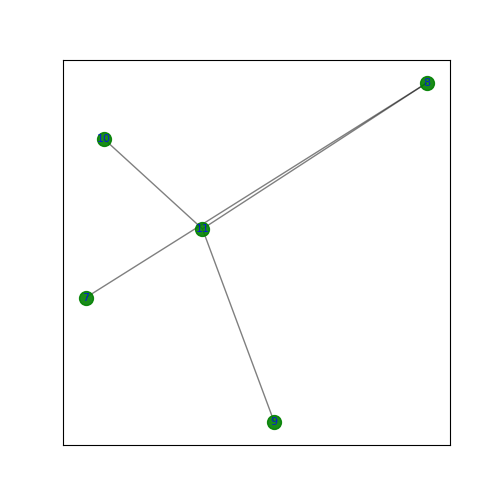
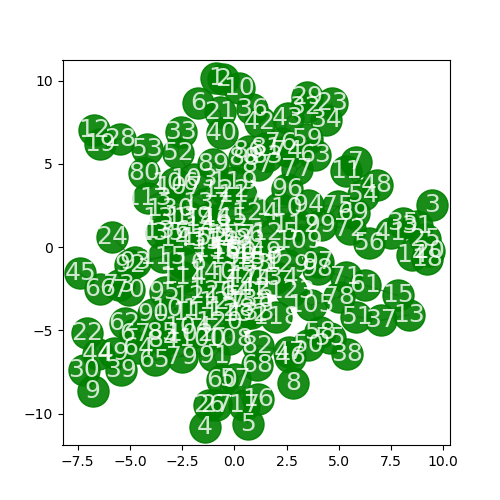
Worked with K on forest growth.

diff --git a/tree.py b/tree.py
@@ -25,9 +25,10 @@ class Tree:
     def _newlocation(self):
         num = randbelow(628) / 100
         r = math.log10(self.age)
-        loc = (round(math.cos(num) * r, 2), round(math.sin(num) * r, 2))
+        # r = 10
+        loc = (self.location[0] + round(math.cos(num) * r, 2), self.location[1] + round(math.sin(num) * r, 2))
         for tree in self.forest.trees:
-            if (loc[0]-tree.location[0]) ** 2 + (loc[1]-tree.location[1]) ** 2 <= r ** 2:
+            if (loc[0]-tree.location[0]) ** 2 + (loc[1]-tree.location[1]) ** 2 <= math.log10(tree.age) ** 2:
                 return None
         return loc
 
@@ -51,7 +52,8 @@ class Tree:
     def getnewneighbors(self):
         for t in self.forest.trees:
             if (t is not self.parent and t is not self and t not in self.neighbors and
-                ((t.location[0] - self.location[0]) ** 2 + (t.location[1] - self.location[1])) <= (2.5 * math.log10(self.age)) ** 2):
+                # ((t.location[0] - self.location[0]) ** 2 + (t.location[1] - self.location[1])) <= (2.5 * math.log10(self.age)) ** 2):
+                ((t.location[0] - self.location[0]) ** 2 + (t.location[1] - self.location[1]) ** 2) <= (0.7 * math.log10(self.age)) ** 2):
                 self.forest.connections[self].append(t)
                 self.forest.connections[t].append(self)
                 self.neighbors.append(t)

diff --git a/forest.py b/forest.py
@@ -102,8 +102,8 @@ class Forest:
         for _ in range(years):
             r = rate
             self.age()
-            # for t in self.trees:
-            #     t.getnewneighbors()
+            for t in self.trees:
+                t.getnewneighbors()
             while randbelow(100) < r * 100:
                 self.spawn()
                 r -= 1
@@ -111,14 +111,11 @@ class Forest:
     def spawn(self):
         parent = choice(self.trees)
         baby = None
-        tries = 0
         while not baby:
+            parent = choice(self.trees)
             while parent.age == 1:
                 parent = choice(self.trees)
             baby = parent.spawnChild()
-            tries += 1
-            if tries == 10:
-                return
         self.trees.append(baby)
         #self.trees.append(self.deku.spawnChild())
 
@@ -131,13 +128,13 @@ class Forest:
             if t.parent: #handle deku
                 GAN(generator=t.generator, discriminator=t.parent.discriminator, x_train=produce_language(t.parent.generator)).train()
 
-    def graph(self):
-        visualize(self.trees)
+    def graph(self, year='test'):
+        visualize(self.trees, str(year))
 
 
 def main():
     forest = Forest()
-    forest.grow(rate=1, years=10)
+    forest.grow(rate=1, years=15)
     #forest.grow(rate=8, years=2)
     forest.graph()
 

diff --git a/gan.py b/gan.py
@@ -39,19 +39,22 @@ random_dim = 100
 # mnist_nn = load_model('mnist_model.h5')
 
 class Generator:
-    def __init__(self):
-        self.G = Sequential()
-        self.G.add(Dense(256, input_dim=random_dim, kernel_initializer=initializers.RandomNormal(stddev=0.02)))
-        self.G.add(LeakyReLU(0.2))
+    def __init__(self, g = None):
+        if g:
+            self.G = g
+        else:
+            self.G = Sequential()
+            self.G.add(Dense(256, input_dim=random_dim, kernel_initializer=initializers.RandomNormal(stddev=0.02)))
+            self.G.add(LeakyReLU(0.2))
 
-        self.G.add(Dense(512))
-        self.G.add(LeakyReLU(0.2))
+            self.G.add(Dense(512))
+            self.G.add(LeakyReLU(0.2))
 
-        self.G.add(Dense(1024))
-        self.G.add(LeakyReLU(0.2))
+            self.G.add(Dense(1024))
+            self.G.add(LeakyReLU(0.2))
 
-        self.G.add(Dense(784, activation='tanh'))
-        self.G.compile(loss='binary_crossentropy', optimizer=Adam(lr=0.0002, beta_1=0.5))
+            self.G.add(Dense(784, activation='tanh'))
+            self.G.compile(loss='binary_crossentropy', optimizer=Adam(lr=0.0002, beta_1=0.5))
 
 class Discriminator:
     def __init__(self):

diff --git a/graphing.py b/graphing.py
@@ -48,7 +48,7 @@ import math
 #     # edges = [(0, 1), (1, 2)]
 #     return G, positions, edges
 
-def graph(trees):
+def graph(trees, name):
     """ The main function. """
 
     # This represses some weird warnings that I was getting:
@@ -116,12 +116,12 @@ def graph(trees):
                             coords,
                             labels,
                             font_size = 8,
-                            font_color = 'b',
+                            font_color = 'w',
                             alpha = 0.8)
 
     #plt.axis('on')
-    #plt.show()
-    plt.savefig('test.png')
+    plt.show()
+    # plt.savefig(name + '.png')
     plt.close('all')
 
 
